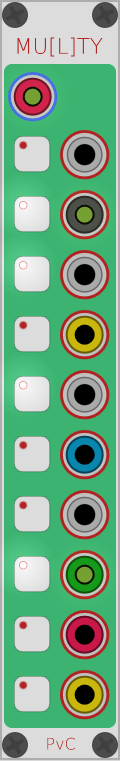
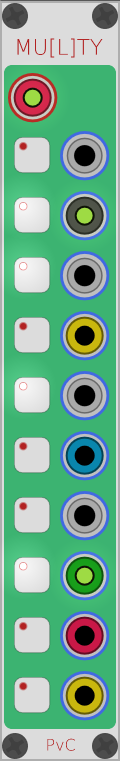
corrected ports

diff --git a/src/Multy.cpp b/src/Multy.cpp
@@ -25,7 +25,7 @@ struct Multy : Module {
 
 	enum LightIds {
 		MUTE_LIGHT,
-		NUM_LIGHTS = MUTE_LIGHT + MULTCOUNT,
+		NUM_LIGHTS = MUTE_LIGHT + MULTCOUNT
 	};
 
 	bool state[MULTCOUNT];
@@ -116,12 +116,12 @@ MultyWidget::MultyWidget() {
 	addChild(createScrew<ScrewHead3>(Vec(0, 365)));
 	addChild(createScrew<ScrewHead4>(Vec(box.size.x - 15, 365)));
 	// add input
-	addInput(createInput<OutPort>(Vec(box.size.x - 56, 36), module, Multy::MULT_INPUT));
+	addInput(createInput<InPort>(Vec(box.size.x - 56, 36), module, Multy::MULT_INPUT));
 	// add buttons, outputs and lights
 	int y_pad = 30;
 	for (int i = 0; i < MULTCOUNT ; i++) {  
     	addParam(createParam<SquareButton>(Vec(box.size.x - 53, 68 + y_pad * i), module, Multy::MUTE_PARAM + i, 0.0, 1.0, 0.0));
-    	addOutput(createOutput<InPort>(Vec(box.size.x - 30, 65 + y_pad * i), module, Multy::MULT_OUTPUT + i));
+    	addOutput(createOutput<OutPort>(Vec(box.size.x - 30, 65 + y_pad * i), module, Multy::MULT_OUTPUT + i));
     	addChild(createLight<MuteLight<WhiteLight>>(Vec(box.size.x - 50, 71 + y_pad * i), module, Multy::MUTE_LIGHT + i));
   	}
 	
